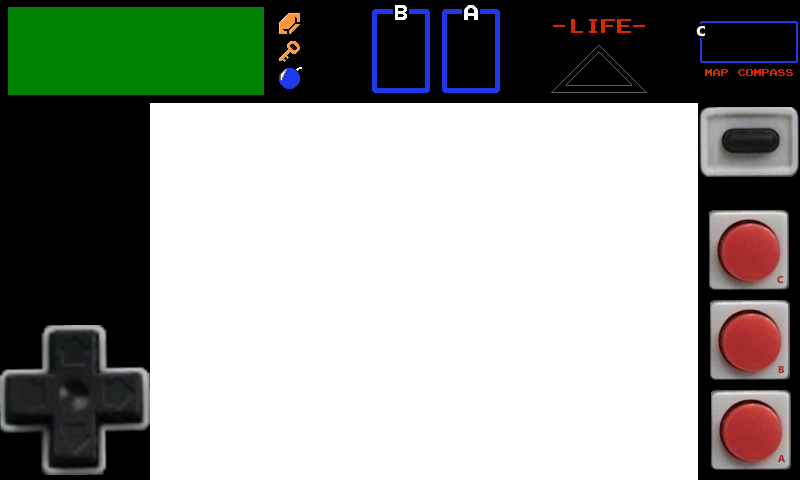
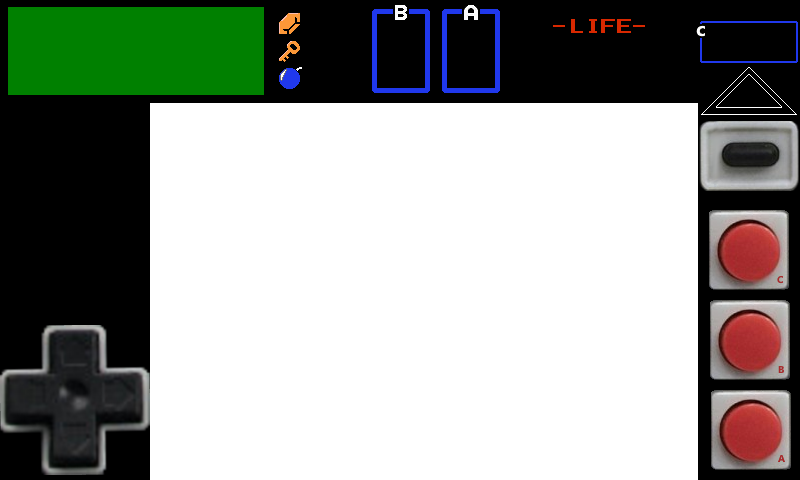
Display life of link

Changed region(s): [[0.875, 0.2188, 1.0, 0.4062], [0.875, 0.125, 1.0, 0.1875]]

diff --git a/legend/app/src/main/java/com/twoplayers/legend/gui/GuiManager.java b/legend/app/src/main/java/com/twoplayers/legend/gui/GuiManager.java
@@ -8,6 +8,7 @@ import com.kilobolt.framework.Input;
 import com.twoplayers.legend.IManager;
 import com.twoplayers.legend.MainActivity;
 import com.twoplayers.legend.assets.image.ImagesGui;
+import com.twoplayers.legend.character.Link;
 import com.twoplayers.legend.character.LinkManager;
 import com.twoplayers.legend.character.object.Arrow;
 import com.twoplayers.legend.character.object.Boomerang;
@@ -65,6 +66,11 @@ public class GuiManager implements IManager {
     private static final int WIDTH_BUTTON = 150;
     private static final int HEIGHT_BUTTON = 90;
     private static final int HEIGHT_BUTTON_A = 100;
+
+    private static final int TOP_HEARTS_UPPER_ROW = 44;
+    private static final int TOP_HEARTS_LOWER_ROW = 68;
+    private static final int LEFT_HEARTS = 528;
+    private static final int WIDTH_HEART = 18;
 
     private static final int LEFT_SWORD = 460;
     private static final int TOP_SWORD = 28;
@@ -219,88 +225,111 @@ public class GuiManager implements IManager {
             }
         }
 
+        Link link = linkManager.getLink();
+
+        // Draw link life
+        for (int i = 1; i <= Math.min(8, link.getLifeMax()); i++) {
+            if (link.getLife() >= i) {
+                g.drawImage(imagesGui.get("heart"), LEFT_HEARTS + (i - 1) * WIDTH_HEART, TOP_HEARTS_LOWER_ROW);
+            } else if (link.getLife() > i - 1) {
+                g.drawImage(imagesGui.get("heart_half"), LEFT_HEARTS + (i - 1) * WIDTH_HEART, TOP_HEARTS_LOWER_ROW);
+            } else {
+                g.drawImage(imagesGui.get("heart_empty"), LEFT_HEARTS + (i - 1) * WIDTH_HEART, TOP_HEARTS_LOWER_ROW);
+            }
+        }
+
+        for (int i = 9; i <= Math.min(16, link.getLifeMax()); i++) {
+            if (link.getLife() >= i) {
+                g.drawImage(imagesGui.get("heart"), LEFT_HEARTS + (i - 9) * WIDTH_HEART, TOP_HEARTS_UPPER_ROW);
+            } else if (link.getLife() > i - 1) {
+                g.drawImage(imagesGui.get("heart_half"), LEFT_HEARTS + (i - 9) * WIDTH_HEART, TOP_HEARTS_UPPER_ROW);
+            } else {
+                g.drawImage(imagesGui.get("heart_empty"), LEFT_HEARTS + (i - 9) * WIDTH_HEART, TOP_HEARTS_UPPER_ROW);
+            }
+        }
+
         // Draw selected items
-        if (linkManager.getLink().getSword() != Sword.NONE) {
-            g.drawScaledImage(imagesGui.get(linkManager.getLink().getSword().name),LEFT_SWORD, TOP_SWORD, COEF_SELECTED_ITEMS);
+        if (link.getSword() != Sword.NONE) {
+            g.drawScaledImage(imagesGui.get(link.getSword().name),LEFT_SWORD, TOP_SWORD, COEF_SELECTED_ITEMS);
         }
         switch (cursor_position) {
             case 1:
-                g.drawScaledImage(imagesGui.get(linkManager.getLink().getBoomerang().name),LEFT_ITEM_B, TOP_ITEM_B, COEF_SELECTED_ITEMS);
+                g.drawScaledImage(imagesGui.get(link.getBoomerang().name),LEFT_ITEM_B, TOP_ITEM_B, COEF_SELECTED_ITEMS);
                 break;
             case 2:
                 g.drawScaledImage(imagesGui.get("bomb"),LEFT_ITEM_B, TOP_ITEM_B, COEF_SELECTED_ITEMS);
                 break;
             case 3:
-                g.drawScaledImage(imagesGui.get(linkManager.getLink().getBow().name),LEFT_ITEM_B, TOP_ITEM_B, COEF_SELECTED_ITEMS);
+                g.drawScaledImage(imagesGui.get(link.getBow().name),LEFT_ITEM_B, TOP_ITEM_B, COEF_SELECTED_ITEMS);
                 break;
             case 4:
-                g.drawScaledImage(imagesGui.get(linkManager.getLink().getLight().name),LEFT_ITEM_B, TOP_ITEM_B, COEF_SELECTED_ITEMS);
+                g.drawScaledImage(imagesGui.get(link.getLight().name),LEFT_ITEM_B, TOP_ITEM_B, COEF_SELECTED_ITEMS);
                 break;
             case 5:
-                g.drawScaledImage(imagesGui.get(linkManager.getLink().getFlute().name),LEFT_ITEM_B, TOP_ITEM_B, COEF_SELECTED_ITEMS);
+                g.drawScaledImage(imagesGui.get(link.getFlute().name),LEFT_ITEM_B, TOP_ITEM_B, COEF_SELECTED_ITEMS);
                 break;
             case 6:
-                g.drawScaledImage(imagesGui.get(linkManager.getLink().getMeat().name),LEFT_ITEM_B, TOP_ITEM_B, COEF_SELECTED_ITEMS);
+                g.drawScaledImage(imagesGui.get(link.getMeat().name),LEFT_ITEM_B, TOP_ITEM_B, COEF_SELECTED_ITEMS);
                 break;
             case 7:
-                g.drawScaledImage(imagesGui.get(linkManager.getLink().getPotion().name),LEFT_ITEM_B, TOP_ITEM_B, COEF_SELECTED_ITEMS);
+                g.drawScaledImage(imagesGui.get(link.getPotion().name),LEFT_ITEM_B, TOP_ITEM_B, COEF_SELECTED_ITEMS);
                 break;
             case 8:
-                g.drawScaledImage(imagesGui.get(linkManager.getLink().getScepter().name),LEFT_ITEM_B, TOP_ITEM_B, COEF_SELECTED_ITEMS);
+                g.drawScaledImage(imagesGui.get(link.getScepter().name),LEFT_ITEM_B, TOP_ITEM_B, COEF_SELECTED_ITEMS);
                 break;
         }
 
         // Draw inventory items
-        if (linkManager.getLink().getBomb() > 0) {
+        if (link.getBomb() > 0) {
             g.drawImage(imagesGui.get("bomb"), LEFT_BOMB, TOP_BOMB);
         }
-        if (linkManager.getLink().getArrow() != Arrow.NONE) {
-            g.drawImage(imagesGui.get(linkManager.getLink().getArrow().name),LEFT_ARROW, TOP_ARROW);
+        if (link.getArrow() != Arrow.NONE) {
+            g.drawImage(imagesGui.get(link.getArrow().name),LEFT_ARROW, TOP_ARROW);
         }
-        if (linkManager.getLink().getBoomerang() != Boomerang.NONE) {
-            g.drawImage(imagesGui.get(linkManager.getLink().getBoomerang().name),LEFT_BOOMERANG, TOP_BOOMERANG);
+        if (link.getBoomerang() != Boomerang.NONE) {
+            g.drawImage(imagesGui.get(link.getBoomerang().name),LEFT_BOOMERANG, TOP_BOOMERANG);
         }
-        if (linkManager.getLink().getBow() != Bow.NONE) {
-            g.drawImage(imagesGui.get(linkManager.getLink().getBow().name),LEFT_BOW, TOP_BOW);
+        if (link.getBow() != Bow.NONE) {
+            g.drawImage(imagesGui.get(link.getBow().name),LEFT_BOW, TOP_BOW);
         }
-        if (linkManager.getLink().getBracelet() != Bracelet.NONE) {
-            g.drawImage(imagesGui.get(linkManager.getLink().getBracelet().name),LEFT_BRACELET, TOP_BRACELET);
+        if (link.getBracelet() != Bracelet.NONE) {
+            g.drawImage(imagesGui.get(link.getBracelet().name),LEFT_BRACELET, TOP_BRACELET);
         }
-        if (linkManager.getLink().getCompass() != Compass.NONE) {
-            g.drawImage(imagesGui.get(linkManager.getLink().getCompass().name),LEFT_COMPASS, TOP_COMPASS);
+        if (link.getCompass() != Compass.NONE) {
+            g.drawImage(imagesGui.get(link.getCompass().name),LEFT_COMPASS, TOP_COMPASS);
         }
-        if (linkManager.getLink().getDungeonMap() != DungeonMap.NONE) {
-            g.drawImage(imagesGui.get(linkManager.getLink().getDungeonMap().name),LEFT_DUNGEONMAP, TOP_DUNGEONMAP);
+        if (link.getDungeonMap() != DungeonMap.NONE) {
+            g.drawImage(imagesGui.get(link.getDungeonMap().name),LEFT_DUNGEONMAP, TOP_DUNGEONMAP);
         }
-        if (linkManager.getLink().getFlute() != Flute.NONE) {
-            g.drawImage(imagesGui.get(linkManager.getLink().getFlute().name),LEFT_FLUTE, TOP_FLUTE);
+        if (link.getFlute() != Flute.NONE) {
+            g.drawImage(imagesGui.get(link.getFlute().name),LEFT_FLUTE, TOP_FLUTE);
         }
-        if (linkManager.getLink().getInfiniteKey() != InfiniteKey.NONE) {
-            g.drawImage(imagesGui.get(linkManager.getLink().getInfiniteKey().name),LEFT_INFINITEKEY, TOP_INFINITEKEY);
+        if (link.getInfiniteKey() != InfiniteKey.NONE) {
+            g.drawImage(imagesGui.get(link.getInfiniteKey().name),LEFT_INFINITEKEY, TOP_INFINITEKEY);
         }
-        if (linkManager.getLink().getLadder() != Ladder.NONE) {
-            g.drawImage(imagesGui.get(linkManager.getLink().getLadder().name),LEFT_LADDER, TOP_LADDER);
+        if (link.getLadder() != Ladder.NONE) {
+            g.drawImage(imagesGui.get(link.getLadder().name),LEFT_LADDER, TOP_LADDER);
         }
-        if (linkManager.getLink().getLight() != Light.NONE) {
-            g.drawImage(imagesGui.get(linkManager.getLink().getLight().name),LEFT_LIGHT, TOP_LIGHT);
+        if (link.getLight() != Light.NONE) {
+            g.drawImage(imagesGui.get(link.getLight().name),LEFT_LIGHT, TOP_LIGHT);
         }
-        if (linkManager.getLink().getMeat() != Meat.NONE) {
-            g.drawImage(imagesGui.get(linkManager.getLink().getMeat().name),LEFT_MEAT, TOP_MEAT);
+        if (link.getMeat() != Meat.NONE) {
+            g.drawImage(imagesGui.get(link.getMeat().name),LEFT_MEAT, TOP_MEAT);
         }
-        if (linkManager.getLink().getPotion() != Potion.NONE) {
-            g.drawImage(imagesGui.get(linkManager.getLink().getPotion().name),LEFT_POTION, TOP_POTION);
+        if (link.getPotion() != Potion.NONE) {
+            g.drawImage(imagesGui.get(link.getPotion().name),LEFT_POTION, TOP_POTION);
         }
-        if (linkManager.getLink().getRaft() != Raft.NONE) {
-            g.drawImage(imagesGui.get(linkManager.getLink().getRaft().name),LEFT_RAFT, TOP_RAFT);
+        if (link.getRaft() != Raft.NONE) {
+            g.drawImage(imagesGui.get(link.getRaft().name),LEFT_RAFT, TOP_RAFT);
         }
-        if (linkManager.getLink().getRing() != Ring.NONE) {
-            g.drawImage(imagesGui.get(linkManager.getLink().getRing().name),LEFT_RING, TOP_RING);
+        if (link.getRing() != Ring.NONE) {
+            g.drawImage(imagesGui.get(link.getRing().name),LEFT_RING, TOP_RING);
         }
-        if (linkManager.getLink().getScepter() != Scepter.NONE) {
-            g.drawImage(imagesGui.get(linkManager.getLink().getScepter().name),LEFT_SCEPTER, TOP_SCEPTER);
+        if (link.getScepter() != Scepter.NONE) {
+            g.drawImage(imagesGui.get(link.getScepter().name),LEFT_SCEPTER, TOP_SCEPTER);
         }
-        if (linkManager.getLink().getSpellBook() != SpellBook.NONE) {
-            g.drawImage(imagesGui.get(linkManager.getLink().getSpellBook().name),LEFT_SPELLBOOK, TOP_SPELLBOOK);
+        if (link.getSpellBook() != SpellBook.NONE) {
+            g.drawImage(imagesGui.get(link.getSpellBook().name),LEFT_SPELLBOOK, TOP_SPELLBOOK);
         }
         g.drawImage(imagesGui.get("cursor"),left_cursor, top_cursor);
     }

diff --git a/legend/app/src/main/java/com/twoplayers/legend/character/Link.java b/legend/app/src/main/java/com/twoplayers/legend/character/Link.java
@@ -32,16 +32,18 @@ public class Link {
 
     private ImagesLink imagesLink;
 
+    protected Animation currentAnimation;
+    protected Map<Orientation, Animation> moveAnimations;
+    protected Map<Sword, Map<Orientation, Animation>> attackAnimations;
+
     public float x;
     public float y;
     public Orientation orientation;
 
     public boolean isAttacking;
 
-    protected Animation currentAnimation;
-    protected Map<Orientation, Animation> moveAnimations;
-    protected Map<Sword, Map<Orientation, Animation>> attackAnimations;
-
+    protected float life;
+    protected float lifeMax;
     protected Arrow arrow;
     protected int bomb;
     protected Boomerang boomerang;
@@ -133,6 +135,14 @@ public class Link {
         animationRight.addFrame(imagesLink.get("link_wood_sword_right_4"), AllImages.COEF, 4);
         animationRight.setOccurrences(1);
         attackAnimations.get(Sword.WOOD).put(Orientation.RIGHT, animationRight);
+    }
+
+    public float getLife() {
+        return life;
+    }
+
+    public float getLifeMax() {
+        return lifeMax;
     }
 
     public Arrow getArrow() {

diff --git a/legend/app/src/main/java/com/twoplayers/legend/character/LinkManager.java b/legend/app/src/main/java/com/twoplayers/legend/character/LinkManager.java
@@ -58,6 +58,9 @@ public class LinkManager implements IManager {
         link.currentAnimation = link.moveAnimations.get(link.orientation);
         link.isAttacking = false;
 
+        link.life = 3;
+        link.lifeMax = 3;
+
         link.arrow = Arrow.WOOD;
         link.bomb = 4;
         link.boomerang = Boomerang.WOOD; //TODO Change it when it can be collected
@@ -250,5 +253,21 @@ public class LinkManager implements IManager {
      */
     public Link getLink() {
         return link;
+    }
+
+    /**
+     * Increase Link life max by 1
+     */
+    public void increaseLinkLifeMax() {
+        if (link.lifeMax < 16) {
+            link.lifeMax++;
+        }
+    }
+
+    /**
+     * Increase Link life
+     */
+    public void changeLinkLife(float value) {
+        link.life = Math.min(link.lifeMax, link.life + value);
     }
 }
